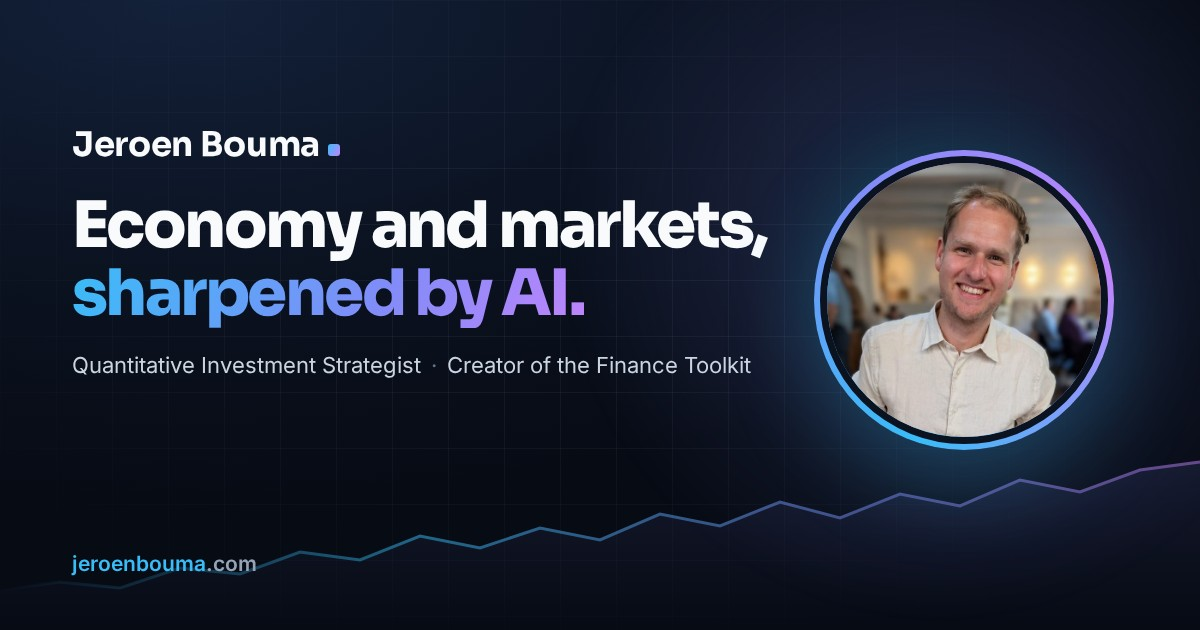
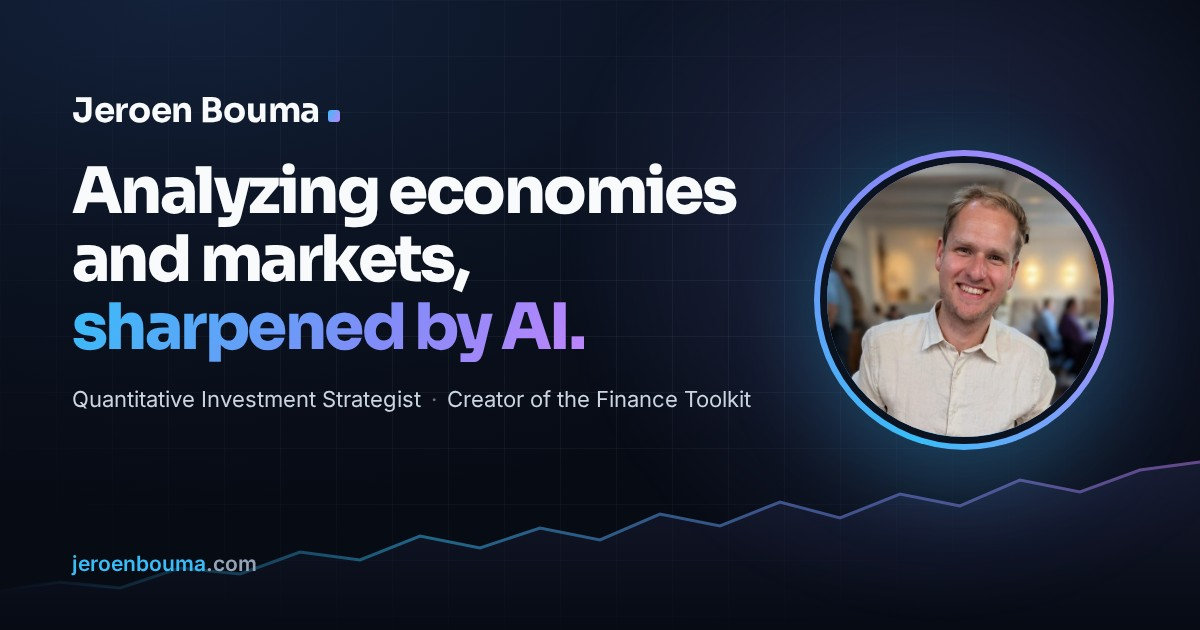
Headline: Analyzing economies and markets, sharpened by AI

Changed region(s): [[0.0617, 0.1508, 0.6475, 0.6635]]

diff --git a/_scripts/share-banner.html b/_scripts/share-banner.html
@@ -64,7 +64,7 @@
       document.getElementById('section').style.display = item.section ? '' : 'none';
       document.getElementById('path').textContent = item.path || '';
       if (item.home) {
-        t.innerHTML = 'Economy and markets,<br><span class="accent">sharpened by AI.</span>';
+        t.innerHTML = 'Analyzing economies and markets,<br><span class="accent">sharpened by AI.</span>';
         t.style.fontSize = '64px';
         d.innerHTML = 'Quantitative Investment Strategist<span>·</span>Creator of the Finance Toolkit';
         return;

diff --git a/index.md b/index.md
@@ -11,7 +11,7 @@ classes: custom-splash home-v2
 <section class="hp-hero">
   <div class="hp-hero__glow" aria-hidden="true"></div>
   <div class="hp-hero__text">
-    <h1 class="hp-title">Economy and markets, <span class="hp-accent">sharpened by AI.</span></h1>
+    <h1 class="hp-title">Analyzing economies and markets, <span class="hp-accent">sharpened by AI.</span></h1>
     <p class="hp-lead">I'm <strong>Jeroen Bouma</strong>, Quantitative Investment Strategist in asset management. I analyze the economy and financial markets and turn that into investment conclusions on strategic asset allocation, ALM, lifecycle investing and Solvency II internal model calculations, combined with deep expertise in AI. I also created the open-source <a href="/projects/financetoolkit">Finance Toolkit</a> and <a href="/projects/financedatabase">Finance Database</a>, used by thousands of analysts.</p>
     <div class="hp-actions">
       <a href="/resume" class="hp-btn hp-btn--primary">View my resume <i class="fas fa-arrow-right" aria-hidden="true"></i></a>
